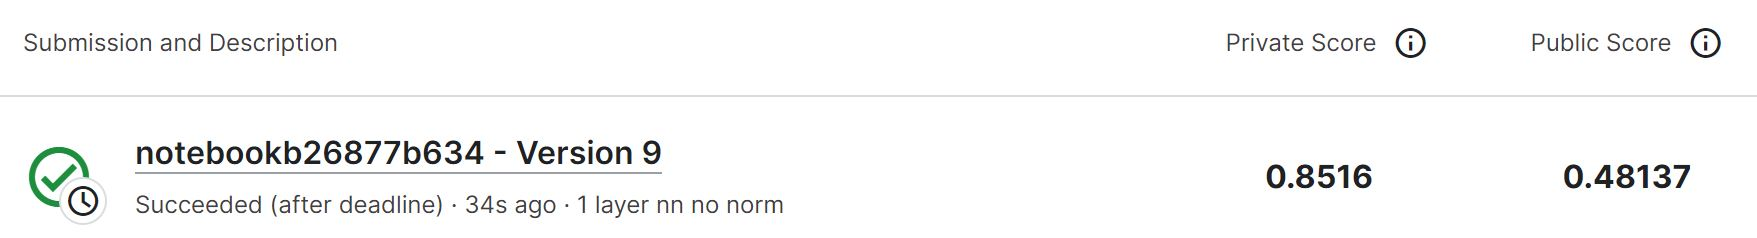
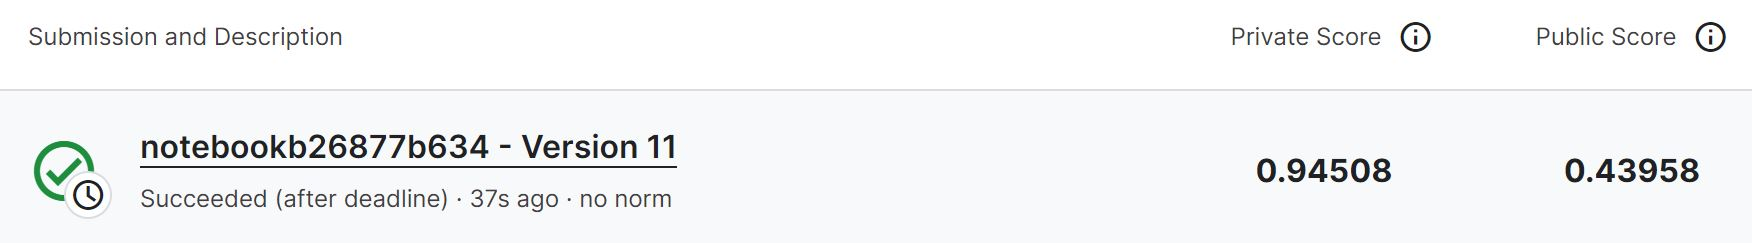
added some basic attempts

diff --git a/finalproject/basic_nn_visuals.py b/finalproject/basic_nn_visuals.py
@@ -3,15 +3,16 @@ import torch.nn as nn
 import torch.optim as optim
 from torch.utils.data import TensorDataset, DataLoader
 import pandas as pd
+import matplotlib.pyplot as plt
 from sklearn.model_selection import train_test_split
 
 # Simple adjustable nn
 
-NUM_HIDDEN_LAYERS = 1
-HIDDEN_LAYER_SIZE = 50
+NUM_HIDDEN_LAYERS = 3
+HIDDEN_LAYER_SIZE = 100
 
-LEARNING_RATE = 0.001
-WEIGHT_DECAY = 0.01
+LEARNING_RATE = 0.0005
+WEIGHT_DECAY = 0.02
 DROPOUT_RATE = 0.5
 
 NUM_EPOCHS = 200
@@ -105,27 +106,59 @@ class BasicNN(nn.Module):
 model = BasicNN(X_train.shape[1], HIDDEN_LAYER_SIZE, 1)
 
 # Loss and optimizer
-criterion = balanced_log_loss
+criterion = nn.BCELoss()
 optimizer = optim.Adam(model.parameters(), lr=LEARNING_RATE, weight_decay=WEIGHT_DECAY)
+
+# Lists to store metrics
+train_losses = []
+val_losses = []
+train_accuracies = []
+val_accuracies = []
 
 # Train the model
 for epoch in range(NUM_EPOCHS):
+    model.train()
+    total_loss = 0
     for inputs, labels in train_loader:
         optimizer.zero_grad()
         outputs = model(inputs)
         loss = criterion(outputs, labels)
         loss.backward()
         optimizer.step()
+        total_loss += loss.item()
+    
+    # Training phase
+    model.eval()
+    total_train_loss = 0
+    with torch.no_grad():
+        y_train_pred = model(X_train_tensor)
+        y_train_pred_class = y_train_pred.round().flatten()
+        correct_train = (y_train_pred_class == y_train_tensor.flatten()).sum().item()
+        train_accuracy = correct_train / len(y_train_tensor) * 100
+        train_accuracies.append(train_accuracy)
 
-# Evaluate the model
-model.eval()
-with torch.no_grad():
-    y_val_pred = model(X_val_tensor)
-    y_val_pred_class = y_val_pred.round()
-    y_val_pred_class = y_val_pred_class.flatten().type_as(y_val_tensor)
-    correct = (y_val_pred_class == y_val_tensor.flatten()).sum().item()
-    accuracy = correct / len(y_val_tensor) * 100
-    print(f'Validation Accuracy: {accuracy}%')
+        # Training loss
+        train_loss = criterion(y_train_pred, y_train_tensor)
+        total_train_loss += train_loss.item()
+    avg_train_loss = total_train_loss / len(y_train_tensor)
+    train_losses.append(avg_train_loss)
+
+    # Validation phase
+    total_val_loss = 0
+    with torch.no_grad():
+        y_val_pred = model(X_val_tensor)
+        y_val_pred_class = y_val_pred.round().flatten()
+        correct_val = (y_val_pred_class == y_val_tensor.flatten()).sum().item()
+        val_accuracy = correct_val / len(y_val_tensor) * 100
+        val_accuracies.append(val_accuracy)
+
+        # Validation loss
+        val_loss = criterion(y_val_pred, y_val_tensor)
+        total_val_loss += val_loss.item()
+    avg_val_loss = total_val_loss / len(y_val_tensor)
+    val_losses.append(avg_val_loss)
+
+print(f'Epoch {epoch+1}/{NUM_EPOCHS}, Training Loss: {avg_train_loss:.4f}, Training Accuracy: {train_accuracy:.4f}%, Validation Loss: {avg_val_loss:.4f}, Validation Accuracy: {val_accuracy:.4f}%')
 
 # Make predictions
 with torch.no_grad():
@@ -140,3 +173,27 @@ submission_df = pd.DataFrame({
 
 # Save to CSV
 submission_df.to_csv('submission.csv', index=False)
+
+# Plotting
+plt.figure(figsize=(12, 5))
+
+# Plot for loss
+plt.subplot(1, 2, 1)
+plt.plot(train_losses, label='Training Loss')
+plt.plot(val_losses, label='Validation Loss')
+plt.xlabel('Epoch')
+plt.ylabel('Loss')
+plt.title('Training and Validation Loss Over Epochs')
+plt.legend()
+
+# Plot for accuracy
+plt.subplot(1, 2, 2)
+plt.plot(train_accuracies, label='Training Accuracy')
+plt.plot(val_accuracies, label='Validation Accuracy')
+plt.xlabel('Epoch')
+plt.ylabel('Accuracy')
+plt.title('Training and Validation Accuracy Over Epochs')
+plt.legend()
+
+plt.tight_layout()
+plt.show()

diff --git a/finalproject/basic_nn_no_norm.py b/finalproject/basic_nn_no_norm.py
@@ -5,17 +5,7 @@ from torch.utils.data import TensorDataset, DataLoader
 import pandas as pd
 from sklearn.model_selection import train_test_split
 
-# Simple adjustable nn
-
-NUM_HIDDEN_LAYERS = 1
-HIDDEN_LAYER_SIZE = 50
-
-LEARNING_RATE = 0.001
-WEIGHT_DECAY = 0.01
-DROPOUT_RATE = 0.5
-
-NUM_EPOCHS = 200
-
+# Simple 1 layer nn with no normalization
 
 # Step 1: Load Train and Test data
 train_df = pd.read_csv('train.csv')
@@ -67,27 +57,9 @@ X_test_tensor = torch.tensor(X_test, dtype=torch.float32)
 train_data = TensorDataset(X_train_tensor, y_train_tensor)
 train_loader = DataLoader(train_data, batch_size=64, shuffle=True)
 
-# Custom Loss
-def balanced_log_loss(output, target, epsilon=1e-7):
-    # Clipping the predicted probabilities
-    output = torch.clamp(output, epsilon, 1 - epsilon)
-
-    # Calculating log loss for each class
-    loss_class_0 = - (1 - target) * torch.log(1 - output)
-    loss_class_1 = - target * torch.log(output)
-
-    # Counting the number of observations in each class
-    n_class_0 = torch.sum(1 - target)
-    n_class_1 = torch.sum(target)
-
-    # Averaging the loss for each class
-    loss = (torch.sum(loss_class_0) / n_class_0 + torch.sum(loss_class_1) / n_class_1) / 2
-
-    return loss
-
 # Model Structure
 class BasicNN(nn.Module):
-    def __init__(self, input_size, hidden_size, output_size, num_hidden_layers=NUM_HIDDEN_LAYERS, dropout_rate=DROPOUT_RATE):
+    def __init__(self, input_size, hidden_size, output_size, num_hidden_layers=1, dropout_rate=0):
         super(BasicNN, self).__init__()
 
         layers = [nn.Linear(input_size, hidden_size), nn.ReLU(), nn.Dropout(dropout_rate)]
@@ -102,14 +74,14 @@ class BasicNN(nn.Module):
     def forward(self, x):
         return self.model(x)
 
-model = BasicNN(X_train.shape[1], HIDDEN_LAYER_SIZE, 1)
+model = BasicNN(X_train.shape[1], 50, 1)
 
 # Loss and optimizer
-criterion = balanced_log_loss
-optimizer = optim.Adam(model.parameters(), lr=LEARNING_RATE, weight_decay=WEIGHT_DECAY)
+criterion = nn.BCELoss()
+optimizer = optim.Adam(model.parameters(), lr=0.001, weight_decay=0)
 
 # Train the model
-for epoch in range(NUM_EPOCHS):
+for epoch in range(100):  # number of epochs
     for inputs, labels in train_loader:
         optimizer.zero_grad()
         outputs = model(inputs)

diff --git a/finalproject/network_params.md b/finalproject/network_params.md
@@ -1,0 +1,22 @@
+Basic NN no normalization:
+NUM_HIDDEN_LAYERS = 1
+HIDDEN_LAYER_SIZE = 50
+
+LEARNING_RATE = 0.001
+WEIGHT_DECAY = 0
+DROPOUT_RATE = 0
+
+NUM_EPOCHS = 100
+Training Loss: 0.0000, Training Accuracy: 100.0000%, Validation Loss: 0.0035, Validation Accuracy: 90.3226%
+
+Basic NN with normalization/new custom loss function:
+NUM_HIDDEN_LAYERS = 1
+HIDDEN_LAYER_SIZE = 50
+
+LEARNING_RATE = 0.001
+WEIGHT_DECAY = 0.01
+DROPOUT_RATE = 0.5
+
+NUM_EPOCHS = 200
+adding norm: Training Loss: 0.0002, Training Accuracy: 98.1744%, Validation Loss: 0.0019, Validation Accuracy: 90.3226%
+cust loss: Training Loss: 0.0002, Training Accuracy: 98.5801%, Validation Loss: 0.0024, Validation Accuracy: 91.9355%
